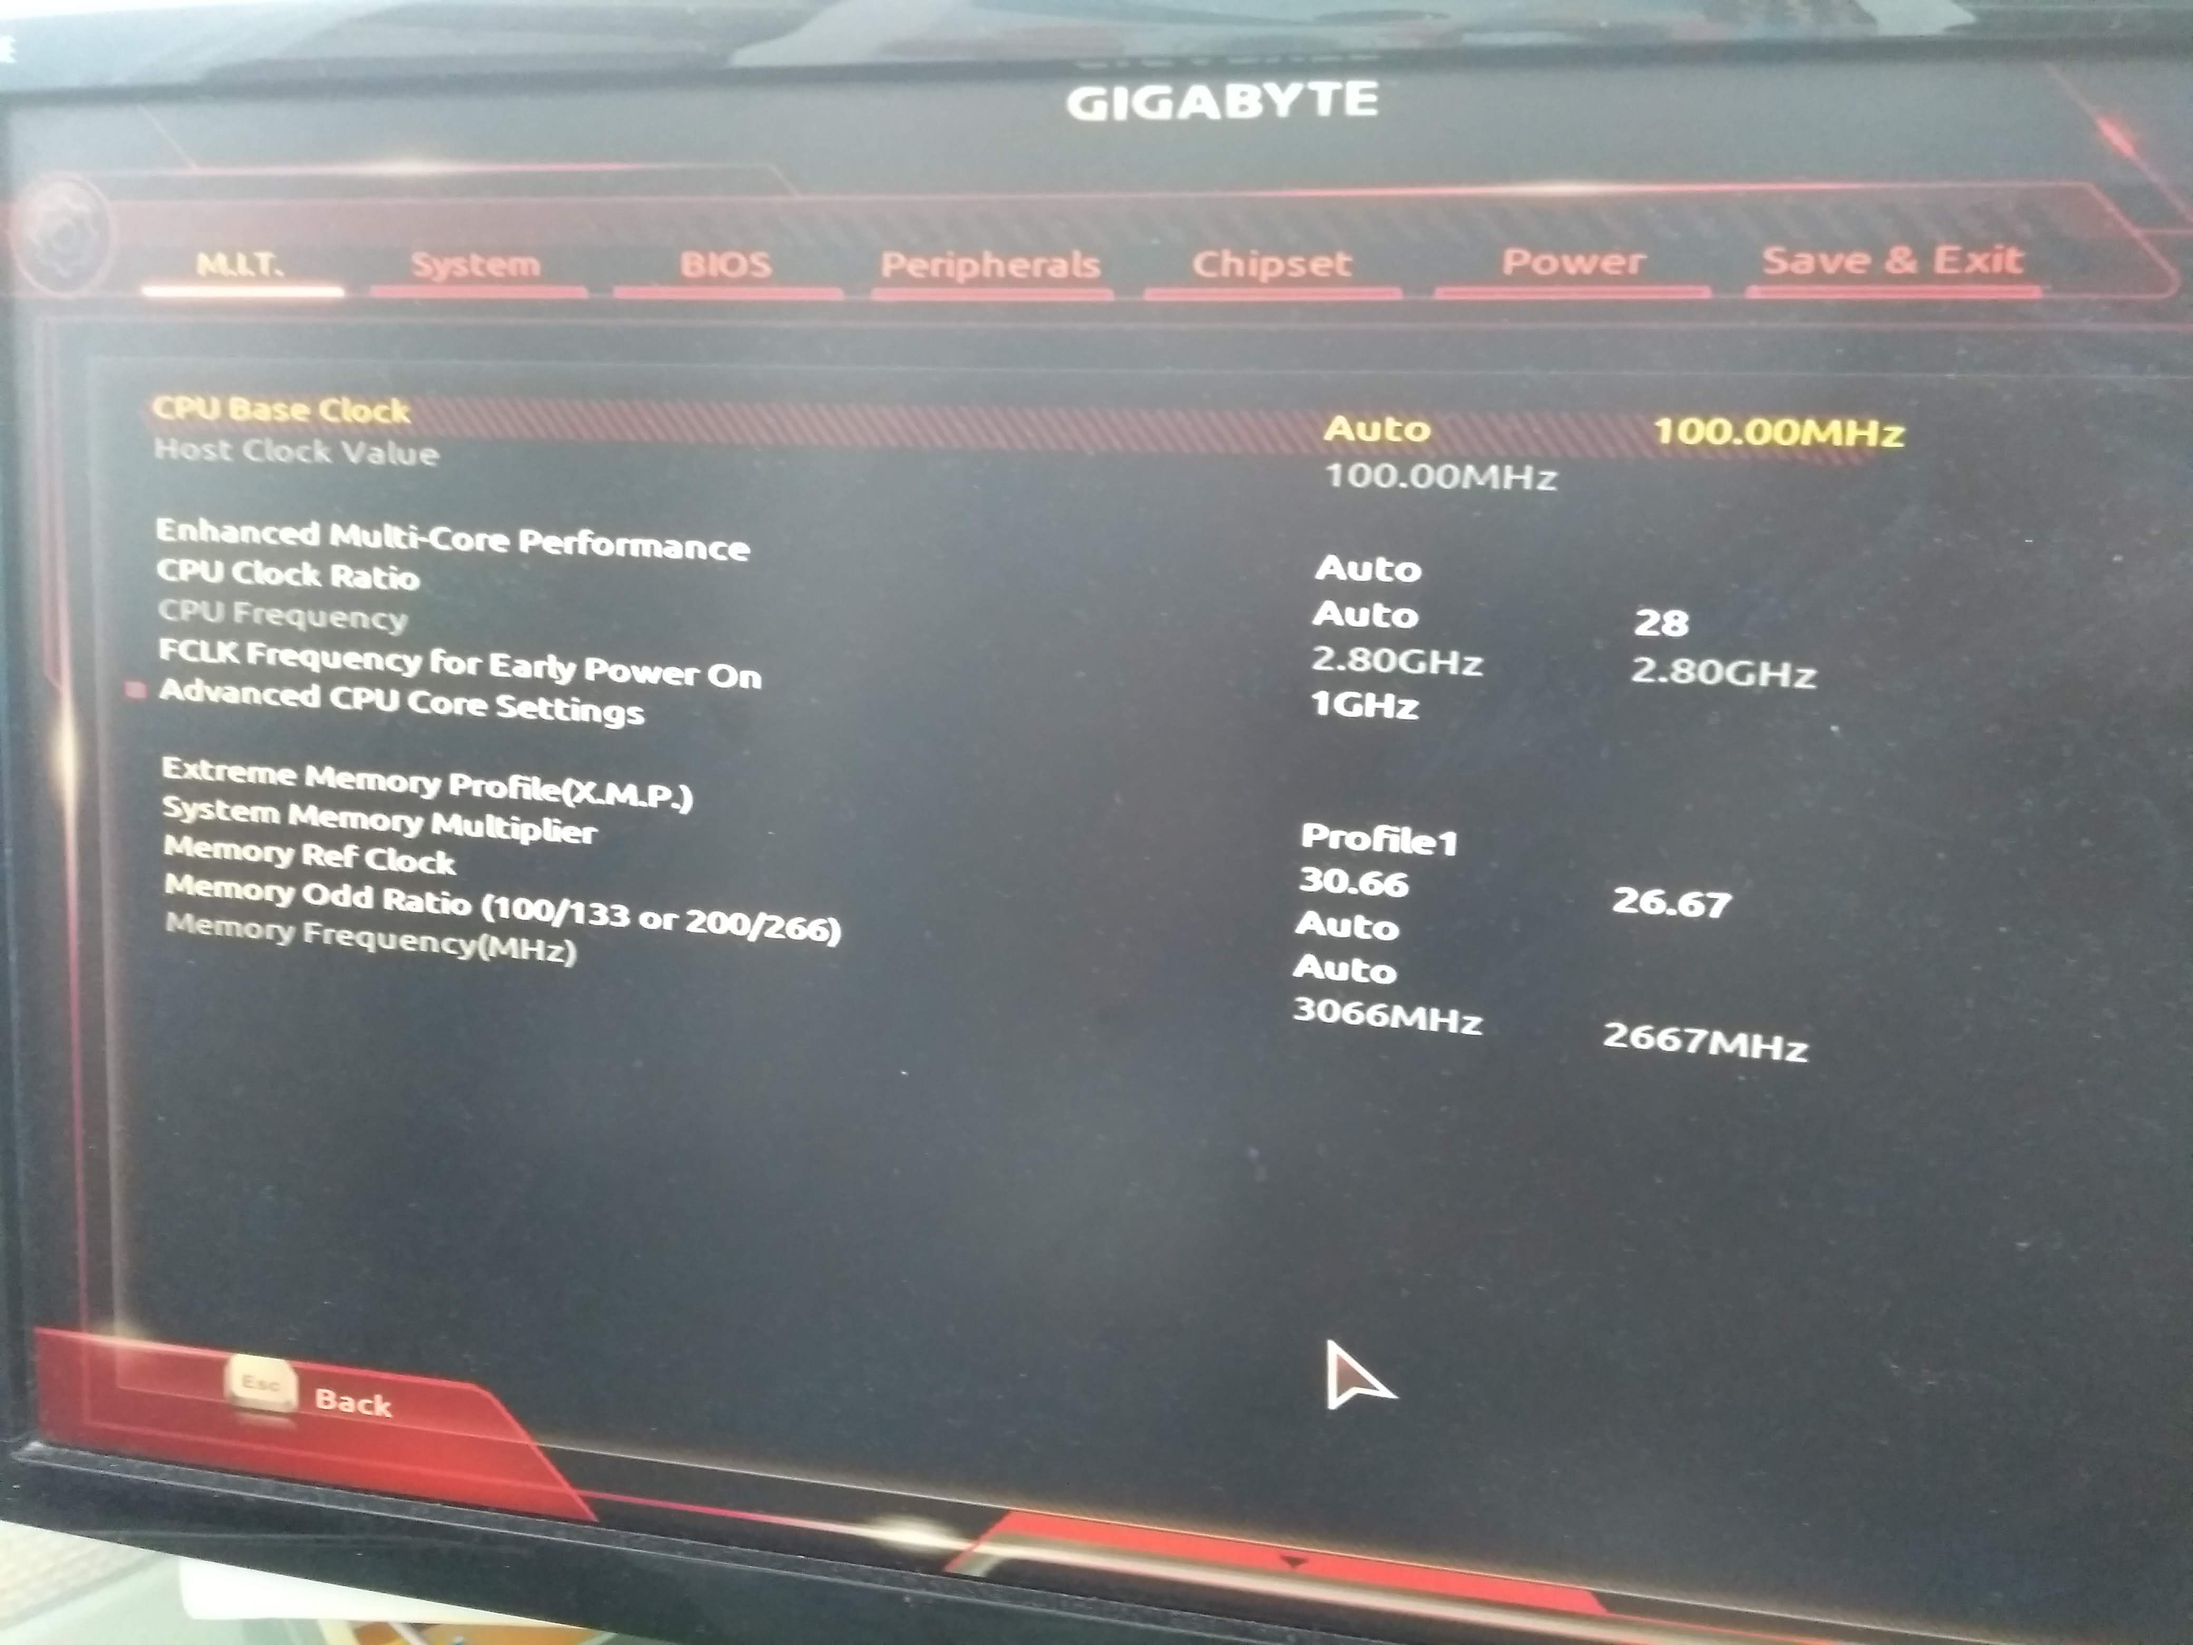
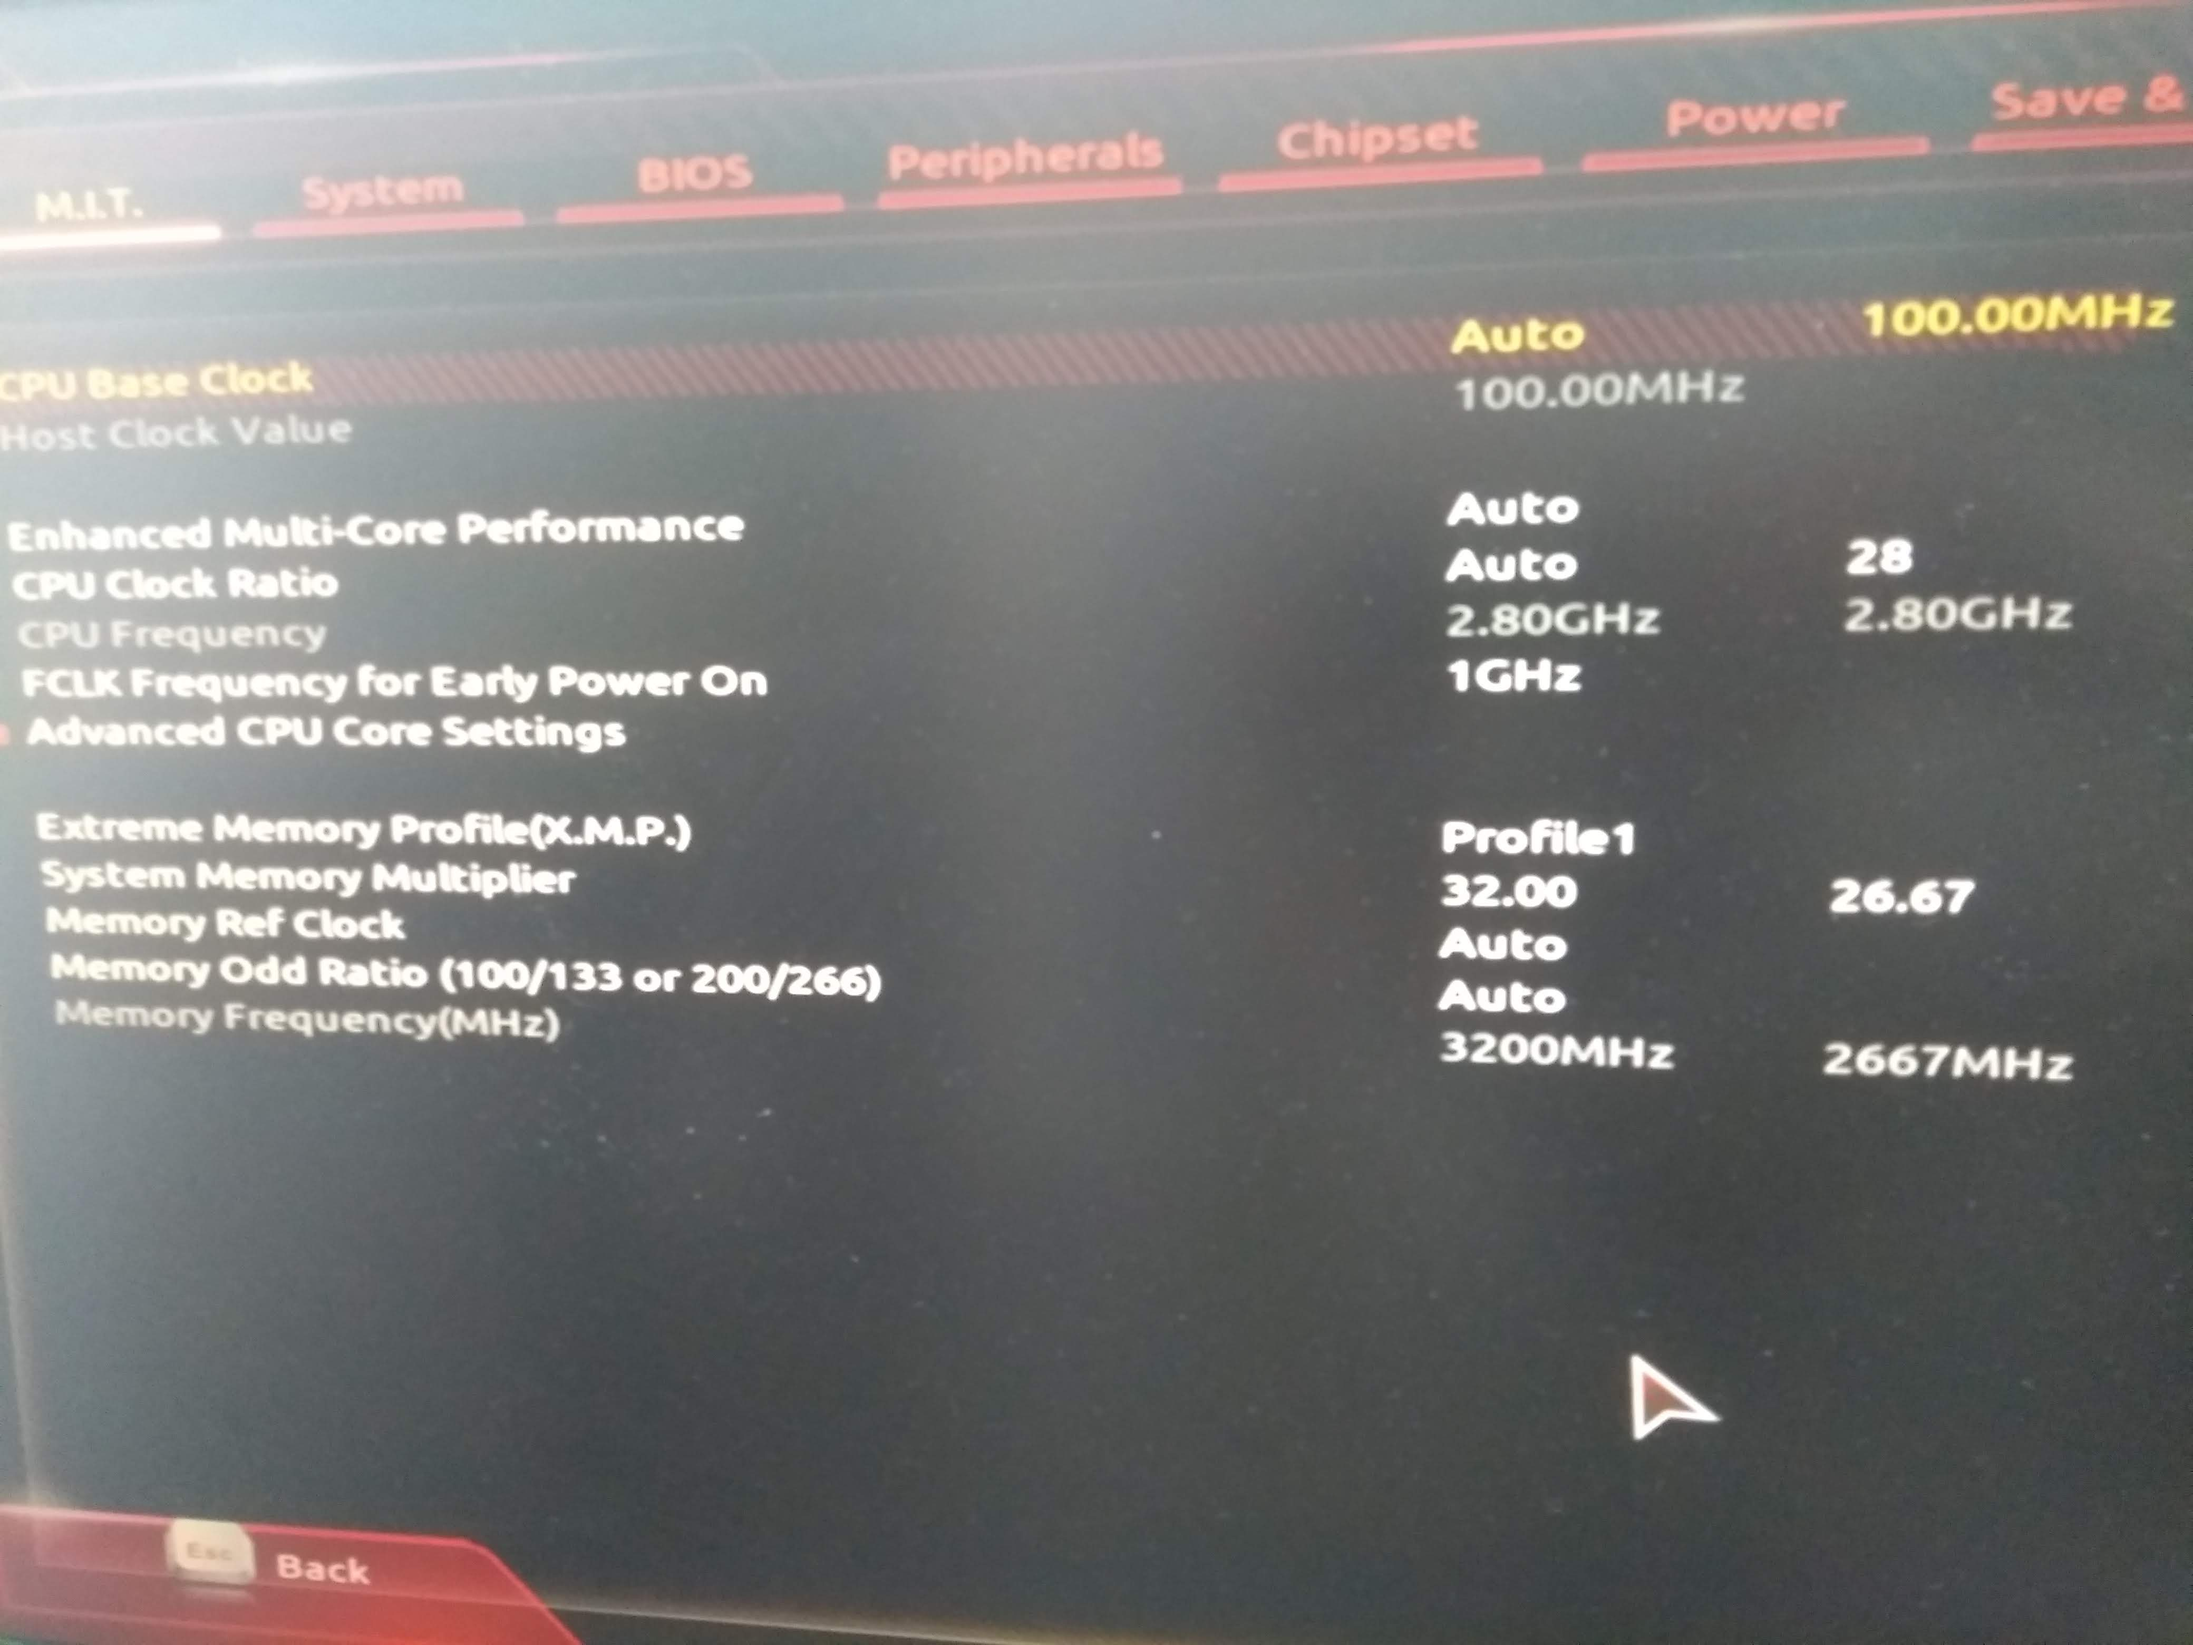
Back to 3200Mhz, switched to SSDT

diff --git a/README.md b/README.md
@@ -7,7 +7,7 @@ I built my Hackintosh because I was disappointed with the price of the new Mac M
 - MacOS Mojave 10.14.4
 - Intel i5-8400 (6 cores @ 2.80 Ghz, 3.80 Ghz Turbo Boost)
 - Gigabyte Z370-HD3P
-- Corsair Vengeance LPX 16Gb (2x8Gb) DDR4 2666MHz OC @ 3066 Mhz (CMK16GX4M2A2666C16)
+- Corsair Vengeance LPX 16Gb (2x8Gb) DDR4 2666MHz OC @ 3200 Mhz (CMK16GX4M2A2666C16)
 - EVGA 600 W1, 80+ WHITE 600W
 - SSD SAMSUNG 830 Series 256 Gb
 - Various old HDDs
@@ -21,9 +21,15 @@ I built my Hackintosh because I was disappointed with the price of the new Mac M
 
 The installation was pretty straight forward. If you go like me with only the integrated Intel GPU (UHD 630), a Coffee Lake CPU, and this motherboard, just follow the [vanilla guide](https://hackintosh.gitbook.io/-r-hackintosh-vanilla-desktop-guide/) and read the "Coffee Lake" page carefully.
 
-You can basically download the config file provided at the end of the page (or my EFI here), it works almost OOTB.
+You can basically download the config file provided at the end of the page, it works almost OOTB.
 
-The only thing you need to generate by yourself if you use my EFI folder is your serial. You can use [macserial](https://github.com/acidanthera/macserial) to generate serials for the model you picked (I chose Macmini8,1 because my config is similar to the new Mac Mini model).
+## My EFI
+
+if you use my EFI folder & BIOS Settings, there are two things you need to do. First, you need to generate by yourself your serials and put them in your `config.plist`. You can use [macserial](https://github.com/acidanthera/macserial) to generate serials for the model you picked (I chose Macmini8,1 because my config is similar to the new Mac Mini model).
+
+Secondly, I switched from using the USB Port limit patch to a custom SSDT. You can find my template file and the compiled `SSDT-UIAC.aml` file in the [SSDT Folder](SSDT). In my case, I decided to disable every port that are considered on the "front" as I only use the USB Ports on the back of the motherboard.
+
+If you want to customize my template `.dsl ` file, do it with any text editor and compile it as an `.aml` file with [MaciASL](https://bitbucket.org/RehabMan/os-x-maciasl-patchmatic/downloads/). Then copy it to *EFI/CLOVER/ACPI/patched* folder. Reboot and if you see nothing wrong with your USB ports, you can disable the USB Ports Limit patchs in your `config.plist` (don't remove USBInjectAll.kext though).
 
 **Note:** I use the [Clover-Minimal Theme](https://github.com/al3xtjames/clover-theme-minimal) in my `config.plist` so if you only download my `config.plist`, be sure to either install this theme or change it to something you already have.
 
@@ -35,6 +41,6 @@ You can find my BIOS Settings with pictures [here](BIOS/README.md).
 
 ![Geekbench](https://raw.githubusercontent.com/kinoute/Hack-Z370-HD3P-i5-8400/master/Pictures/geekbench.png)
 
-Link: https://browser.geekbench.com/v4/cpu/12935715
+Link: https://browser.geekbench.com/v4/cpu/13055459
 
 

diff --git a/BIOS/README.md b/BIOS/README.md
@@ -34,9 +34,7 @@ You can see my different settings in the BIOS with the pictures provided in this
 
 ![Memory](https://raw.githubusercontent.com/kinoute/Hack-Z370-HD3P-i5-8400/master/BIOS/Memory.jpg)
 
-**DON'T** use my RAM settings unless you have the same RAM model. I played with the settings to try different overclocking scenarios and couldn't get a pleasant experience running the RAM at 3200Mhz with a 1.35V DRAM Voltage. Therefore, I rollbacked to 3066Mhz which is fine for now.
-
-If you get freezes on your Mac (like system still running in the background but keyboard & mouse get unresponsive for a few seconds/minutes), it is most likely due to the overclocking settings of your RAM. At least it was in my case.
+**DON'T** use my RAM settings unless you have the same RAM model. I played with the settings to try different overclocking scenarios and finally found a smooth experience running the RAM at 3200Mhz with a 1.35V DRAM Voltage.
 
 ## Memory DRAM Voltage
 
